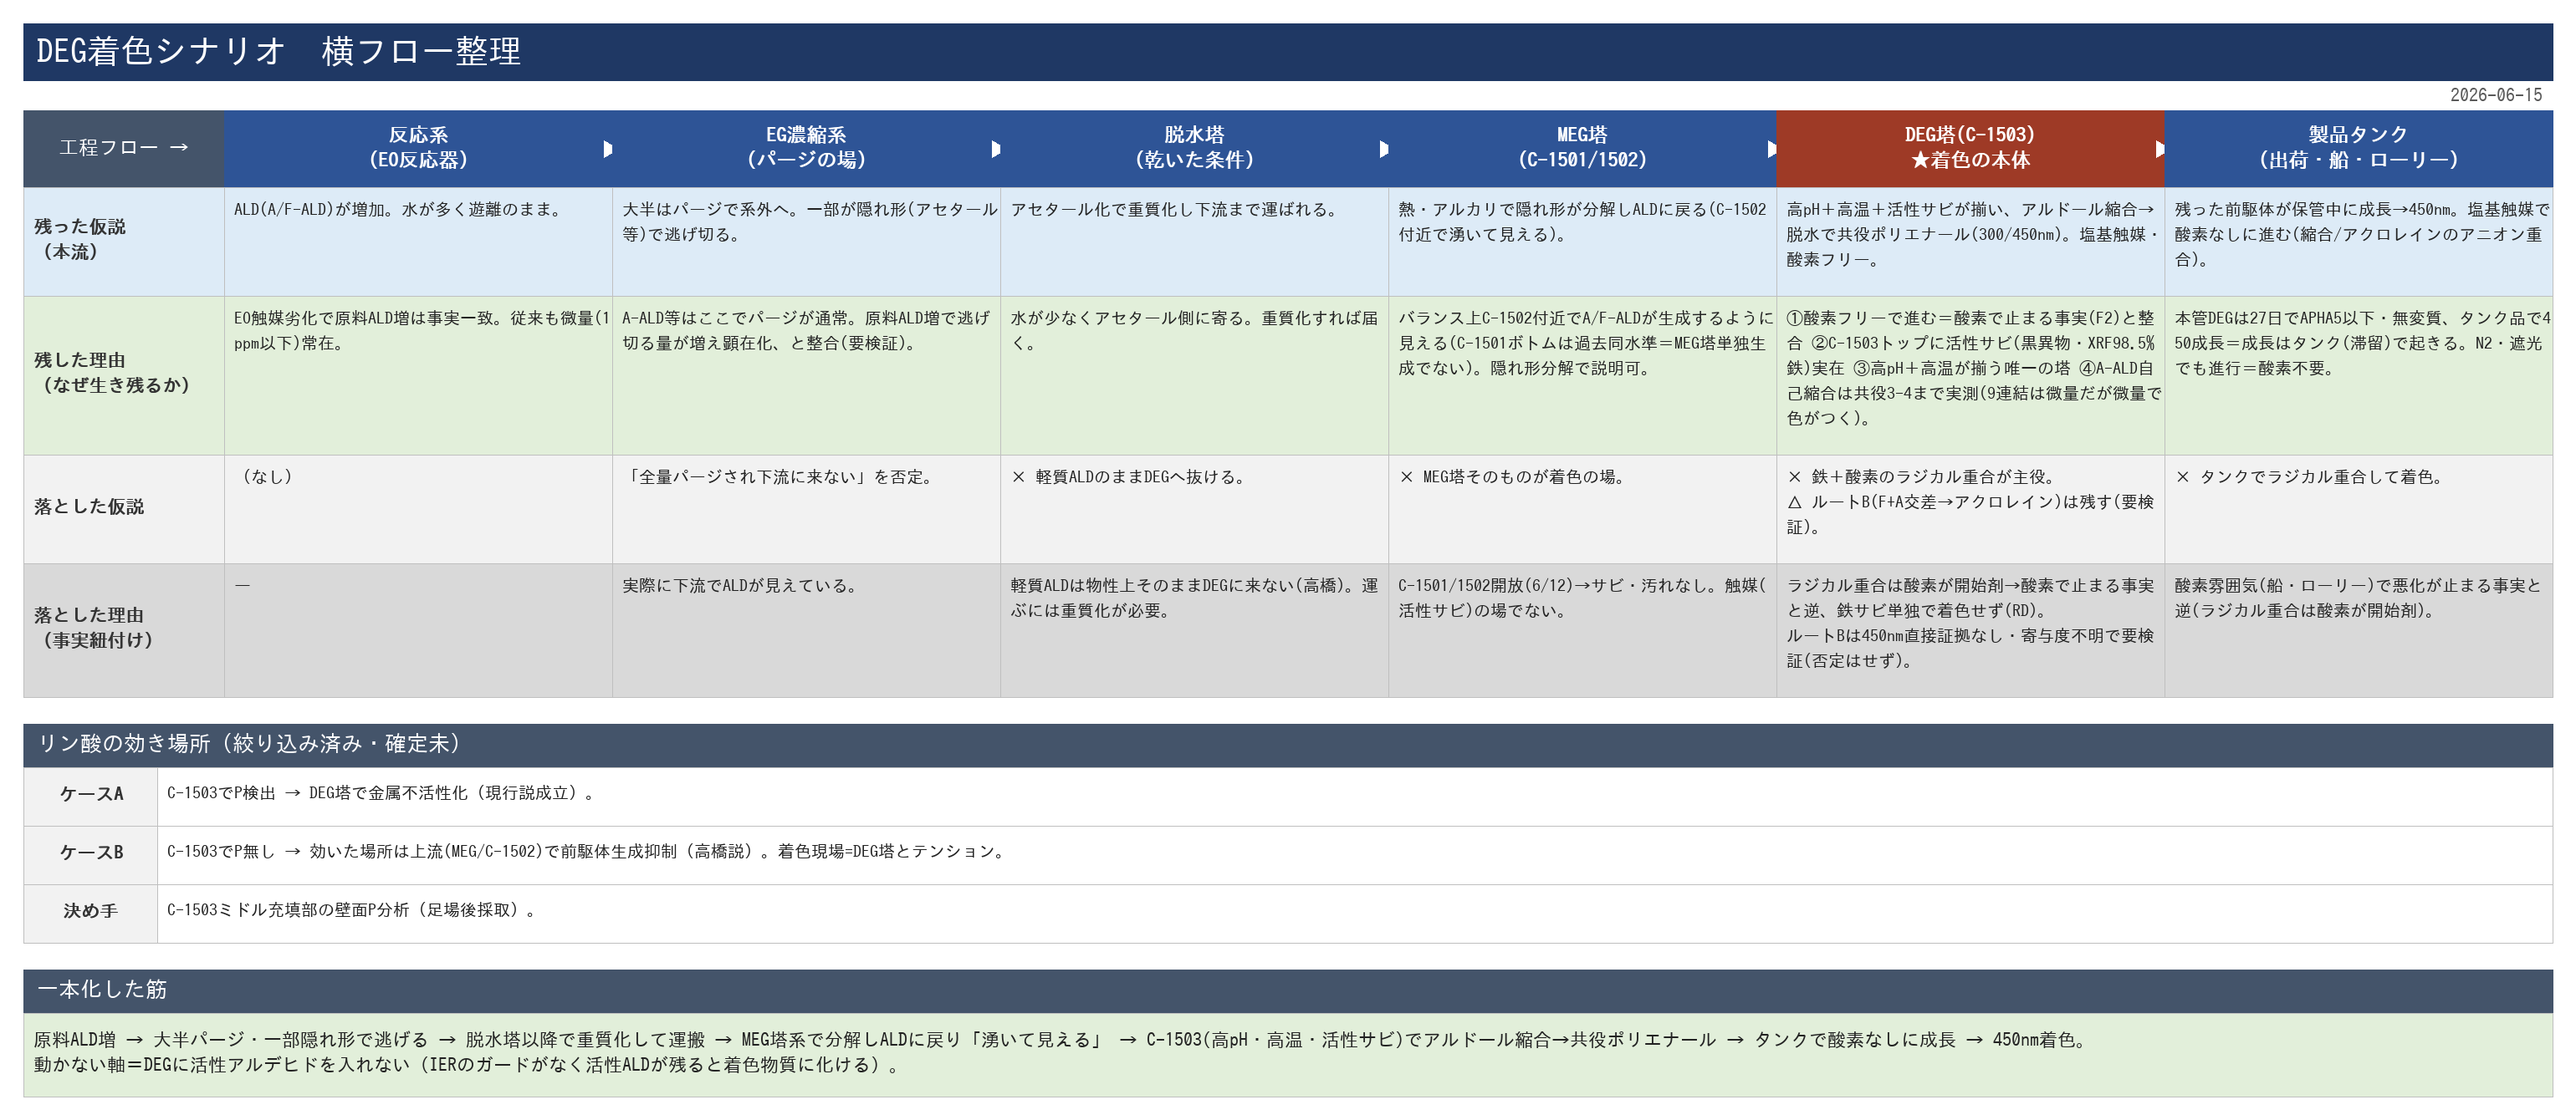
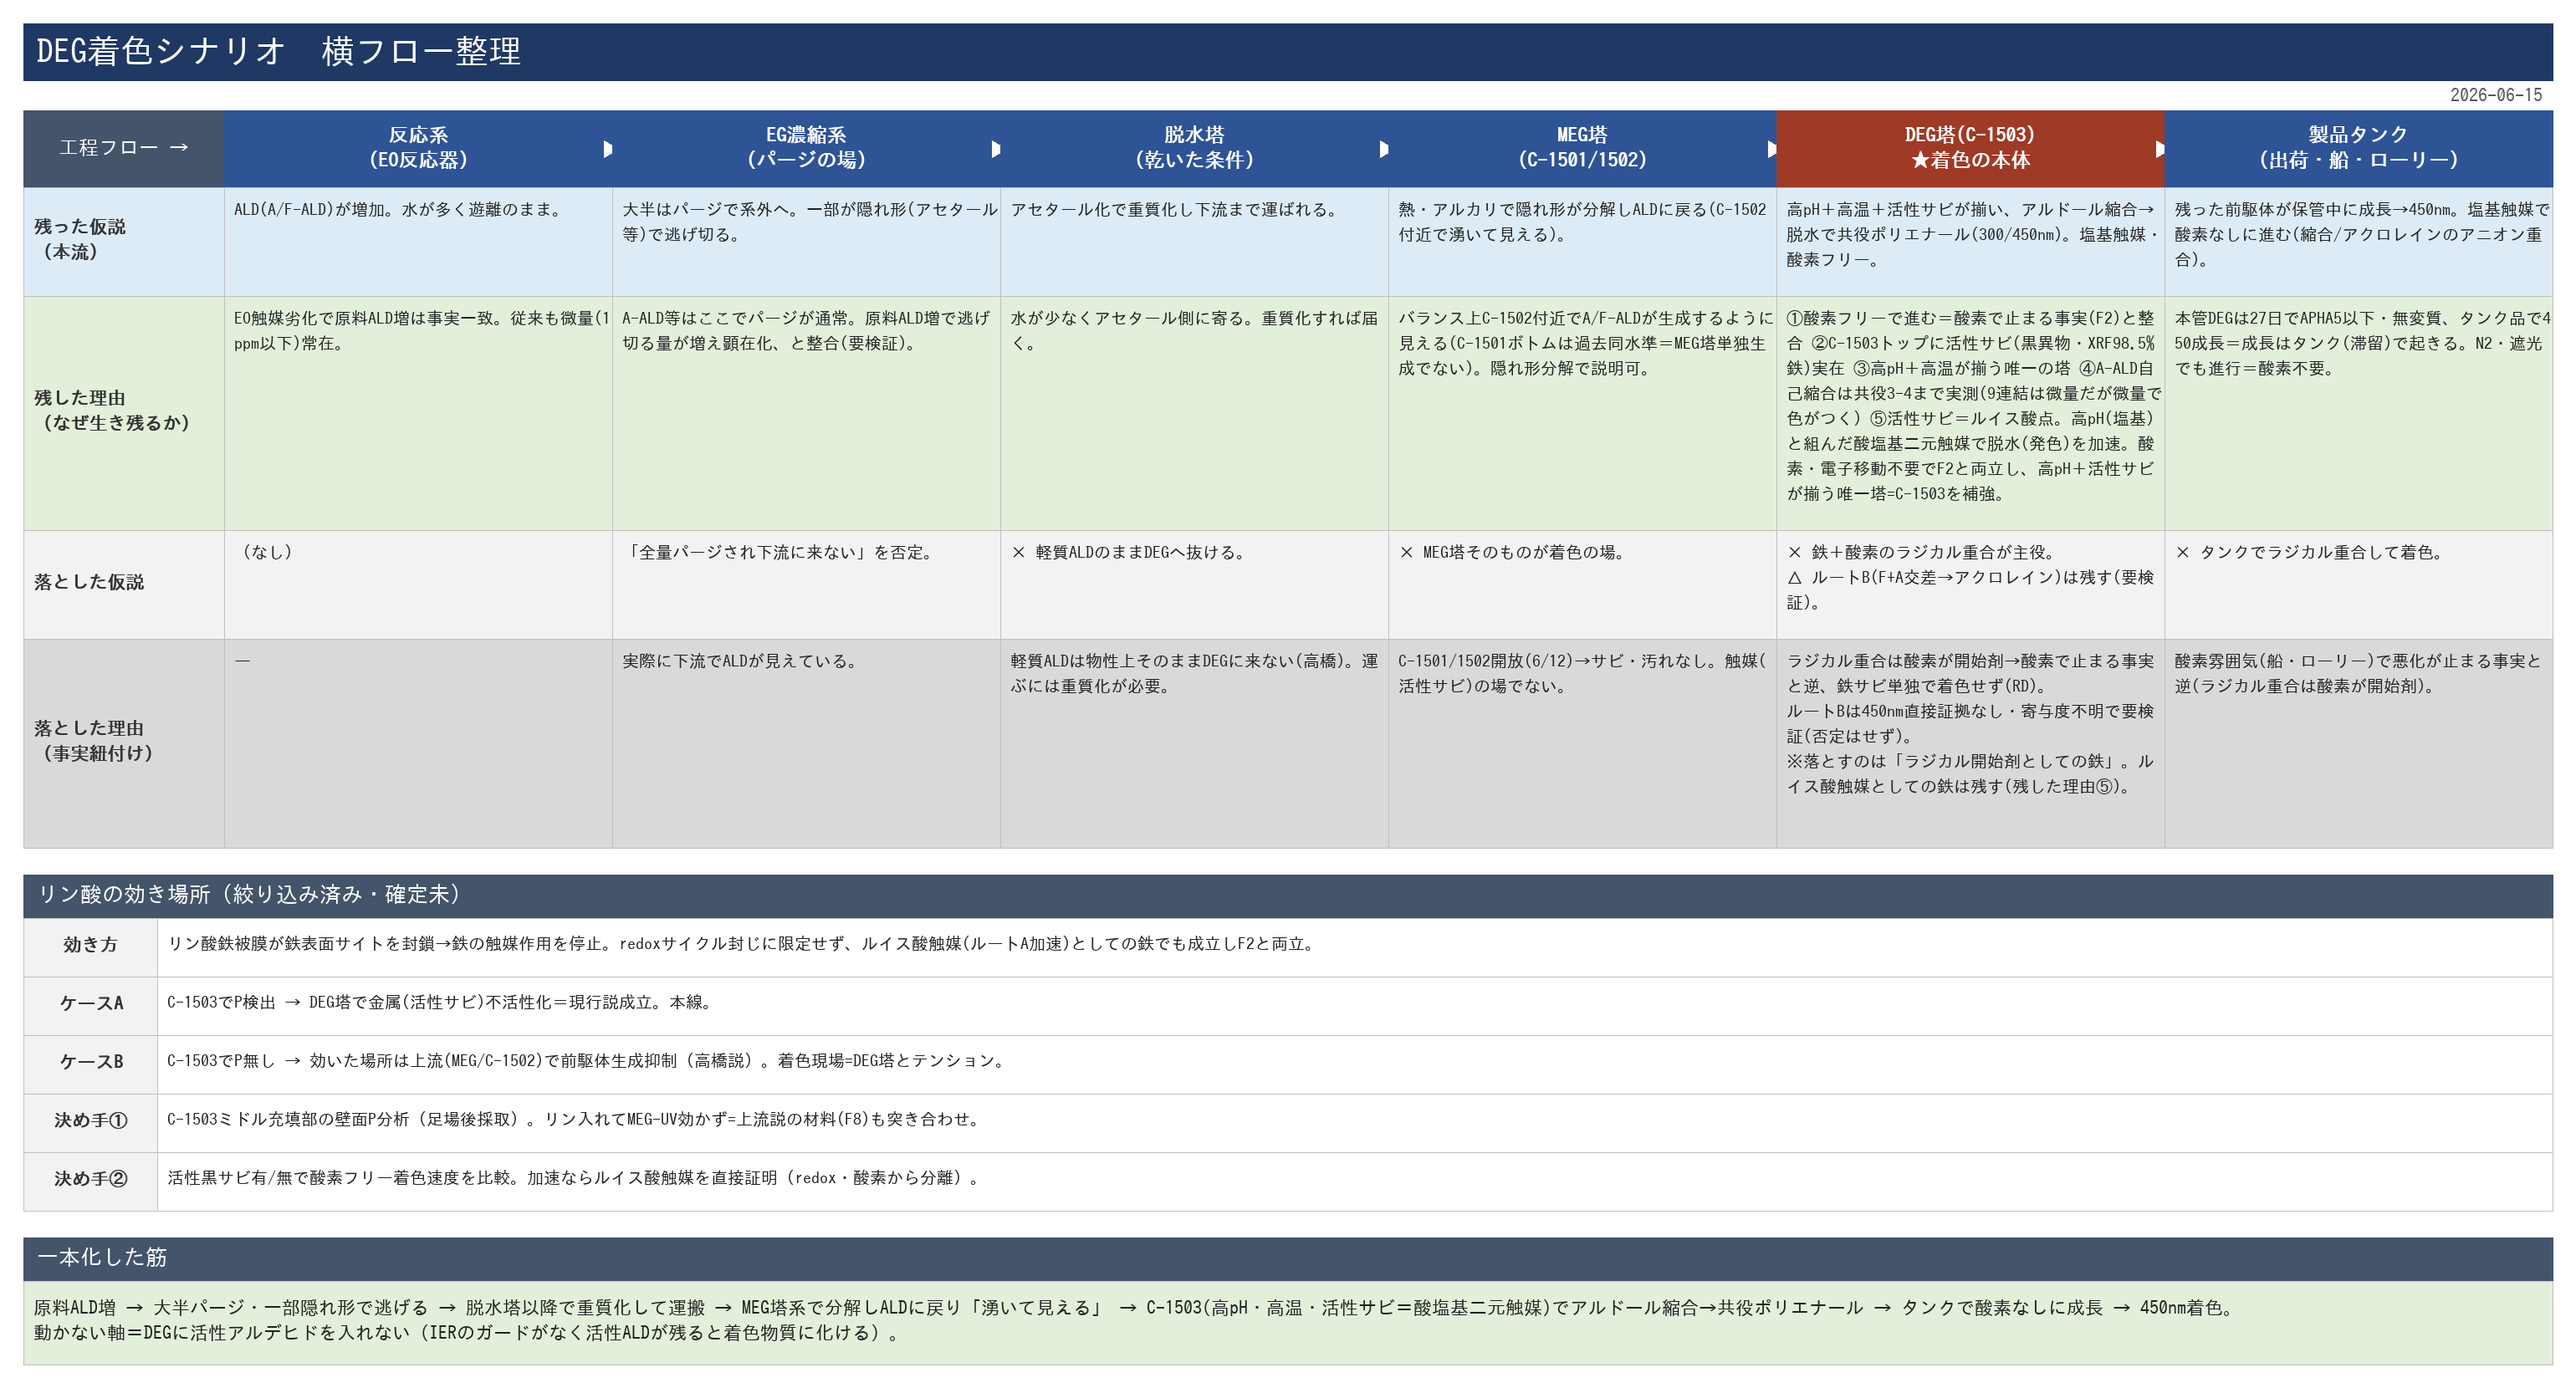
鉄＝ルイス酸触媒の読み替えを反映（ルートA・リン酸の整合強化）
- DEG塔 残した理由に⑤を追加: 活性サビ=ルイス酸点、高pH(塩基)と酸塩基二元触媒で脱水(発色)を加速。酸素・電子移動不要でF2と両立。
- DEG塔 落とした理由に注記: 落とすのはラジカル開始剤としての鉄であり、ルイス酸触媒としての鉄は残す。
- リン酸セクションを再フレーム: 効き方=鉄表面サイト封鎖(redox/ルイス酸どちらでも成立、F2両立)、ケースA本線、決め手②=活性黒サビ有無で酸素フリー着色速度比較。
- 一本化の筋: C-1503を活性サビ=酸塩基二元触媒と明記。
- xlsx/png 再生成、痕跡ゼロ・creatorメタ確認済み。

diff --git a/scripts/build_flow_xlsx.py b/scripts/build_flow_xlsx.py
@@ -75,9 +75,9 @@ DATA = [
     # DEG塔
     [
         "高pH＋高温＋活性サビが揃い、アルドール縮合→脱水で共役ポリエナール(300/450nm)。塩基触媒・酸素フリー。",
-        "①酸素フリーで進む=酸素で止まる事実(F2)と整合 ②C-1503トップに活性サビ(黒異物・XRF98.5%鉄)実在 ③高pH＋高温が揃う唯一の塔 ④A-ALD自己縮合は共役3-4まで実測(9連結は微量だが微量で色がつく)。",
+        "①酸素フリーで進む=酸素で止まる事実(F2)と整合 ②C-1503トップに活性サビ(黒異物・XRF98.5%鉄)実在 ③高pH＋高温が揃う唯一の塔 ④A-ALD自己縮合は共役3-4まで実測(9連結は微量だが微量で色がつく) ⑤活性サビはルイス酸点として働き、高pH(塩基)と組んだ酸塩基二元触媒で脱水(発色)を加速。電子移動・酸素を要さずF2と両立し、高pH＋活性サビが揃う唯一塔=C-1503の根拠を強める。",
         "× 鉄＋酸素のラジカル重合が主役。\n△ ルートB(F+A交差→アクロレイン)は残す(要検証)。",
-        "ラジカル重合は酸素が開始剤→酸素で止まる事実と逆、鉄サビ単独で着色せず(RD)。\nルートBはホルム+アセト揃えば成立・検出例ありで否定せずだが450nm直接証拠なし・寄与度不明で要検証。",
+        "ラジカル重合は酸素が開始剤→酸素で止まる事実と逆、鉄サビ単独で着色せず(RD)。\nルートBは450nm直接証拠なし・寄与度不明で要検証(否定はせず)。\n※落とすのは『ラジカル開始剤としての鉄』。『ルイス酸触媒としての鉄』は残す(残した理由⑤)。",
     ],
     # 製品タンク
     [
@@ -142,7 +142,7 @@ ws.row_dimensions[r].height = 40
 r += 1
 
 # 4段
-TIER_HEIGHTS = [70, 96, 56, 96]
+TIER_HEIGHTS = [72, 128, 58, 118]
 for t in range(4):
     lab = ws.cell(r, 1, ROW_LABELS[t])
     lab.font = Font(name="IPAGothic", size=9.5, bold=True, color="333333")
@@ -169,9 +169,11 @@ c.alignment = Alignment(horizontal="left", vertical="center", indent=1)
 ws.row_dimensions[r].height = 22
 r += 1
 phos = [
-    ("ケースA", "C-1503でP検出 → DEG塔で金属不活性化（現行説成立）。"),
+    ("効き方", "リン酸鉄被膜が鉄表面サイトを封鎖→鉄の触媒作用を停止。redoxサイクル封じに限定せず、ルイス酸触媒(ルートA加速)としての鉄でも成立しF2と両立。"),
+    ("ケースA", "C-1503でP検出 → DEG塔で金属(活性サビ)不活性化＝現行説成立。本線。"),
     ("ケースB", "C-1503でP無し → 効いた場所は上流(MEG/C-1502)で前駆体生成抑制（高橋説）。着色現場=DEG塔とテンション。"),
-    ("決め手", "C-1503ミドル充填部の壁面P分析（足場後採取）。"),
+    ("決め手①", "C-1503ミドル充填部の壁面P分析（足場後採取）。リン入れてMEG-UV効かず=上流説の材料(F8)も突き合わせ。"),
+    ("決め手②", "活性黒サビ有/無で酸素フリー着色速度を比較。加速ならルイス酸触媒を直接証明（redox・酸素から分離）。"),
 ]
 for k, v in phos:
     ws.cell(r, 1, k).font = Font(name="IPAGothic", size=9.5, bold=True, color="333333")
@@ -199,7 +201,7 @@ ws.row_dimensions[r].height = 22
 r += 1
 ws.merge_cells(f"A{r}:{last_letter}{r}")
 suji = ("原料ALD増 → 大半パージ・一部隠れ形で逃げる → 脱水塔以降で重質化して運搬 → "
-        "MEG塔系で分解しALDに戻り「湧いて見える」 → C-1503(高pH・高温・活性サビ)でアルドール縮合→共役ポリエナール → "
+        "MEG塔系で分解しALDに戻り「湧いて見える」 → C-1503(高pH・高温・活性サビ＝酸塩基二元触媒)でアルドール縮合→共役ポリエナール → "
         "タンクで酸素なしに成長 → 450nm着色。\n"
         "動かない軸＝DEGに活性アルデヒドを入れない（IERのガードがなく活性ALDが残ると着色物質に化ける）。")
 c = ws.cell(r, 1, suji)

diff --git a/scripts/draw_flow.py b/scripts/draw_flow.py
@@ -50,9 +50,9 @@ DATA = [
      "× MEG塔そのものが着色の場。",
      "C-1501/1502開放(6/12)→サビ・汚れなし。触媒(活性サビ)の場でない。"],
     ["高pH＋高温＋活性サビが揃い、アルドール縮合→脱水で共役ポリエナール(300/450nm)。塩基触媒・酸素フリー。",
-     "①酸素フリーで進む＝酸素で止まる事実(F2)と整合 ②C-1503トップに活性サビ(黒異物・XRF98.5%鉄)実在 ③高pH＋高温が揃う唯一の塔 ④A-ALD自己縮合は共役3-4まで実測(9連結は微量だが微量で色がつく)。",
+     "①酸素フリーで進む＝酸素で止まる事実(F2)と整合 ②C-1503トップに活性サビ(黒異物・XRF98.5%鉄)実在 ③高pH＋高温が揃う唯一の塔 ④A-ALD自己縮合は共役3-4まで実測(9連結は微量だが微量で色がつく) ⑤活性サビ＝ルイス酸点。高pH(塩基)と組んだ酸塩基二元触媒で脱水(発色)を加速。酸素・電子移動不要でF2と両立し、高pH＋活性サビが揃う唯一塔=C-1503を補強。",
      "× 鉄＋酸素のラジカル重合が主役。\n△ ルートB(F+A交差→アクロレイン)は残す(要検証)。",
-     "ラジカル重合は酸素が開始剤→酸素で止まる事実と逆、鉄サビ単独で着色せず(RD)。\nルートBは450nm直接証拠なし・寄与度不明で要検証(否定はせず)。"],
+     "ラジカル重合は酸素が開始剤→酸素で止まる事実と逆、鉄サビ単独で着色せず(RD)。\nルートBは450nm直接証拠なし・寄与度不明で要検証(否定はせず)。\n※落とすのは「ラジカル開始剤としての鉄」。ルイス酸触媒としての鉄は残す(残した理由⑤)。"],
     ["残った前駆体が保管中に成長→450nm。塩基触媒で酸素なしに進む(縮合/アクロレインのアニオン重合)。",
      "本管DEGは27日でAPHA5以下・無変質、タンク品で450成長＝成長はタンク(滞留)で起きる。N2・遮光でも進行＝酸素不要。",
      "× タンクでラジカル重合して着色。",
@@ -117,12 +117,14 @@ head_h = max(head_h, 46)
 
 # 下部セクション
 phos = [
-    ("ケースA", "C-1503でP検出 → DEG塔で金属不活性化（現行説成立）。"),
+    ("効き方", "リン酸鉄被膜が鉄表面サイトを封鎖→鉄の触媒作用を停止。redoxサイクル封じに限定せず、ルイス酸触媒(ルートA加速)としての鉄でも成立しF2と両立。"),
+    ("ケースA", "C-1503でP検出 → DEG塔で金属(活性サビ)不活性化＝現行説成立。本線。"),
     ("ケースB", "C-1503でP無し → 効いた場所は上流(MEG/C-1502)で前駆体生成抑制（高橋説）。着色現場=DEG塔とテンション。"),
-    ("決め手", "C-1503ミドル充填部の壁面P分析（足場後採取）。"),
+    ("決め手①", "C-1503ミドル充填部の壁面P分析（足場後採取）。リン入れてMEG-UV効かず=上流説の材料(F8)も突き合わせ。"),
+    ("決め手②", "活性黒サビ有/無で酸素フリー着色速度を比較。加速ならルイス酸触媒を直接証明（redox・酸素から分離）。"),
 ]
 suji = ("原料ALD増 → 大半パージ・一部隠れ形で逃げる → 脱水塔以降で重質化して運搬 → "
-        "MEG塔系で分解しALDに戻り「湧いて見える」 → C-1503(高pH・高温・活性サビ)でアルドール縮合→共役ポリエナール → "
+        "MEG塔系で分解しALDに戻り「湧いて見える」 → C-1503(高pH・高温・活性サビ＝酸塩基二元触媒)でアルドール縮合→共役ポリエナール → "
         "タンクで酸素なしに成長 → 450nm着色。\n"
         "動かない軸＝DEGに活性アルデヒドを入れない（IERのガードがなく活性ALDが残ると着色物質に化ける）。")
 
